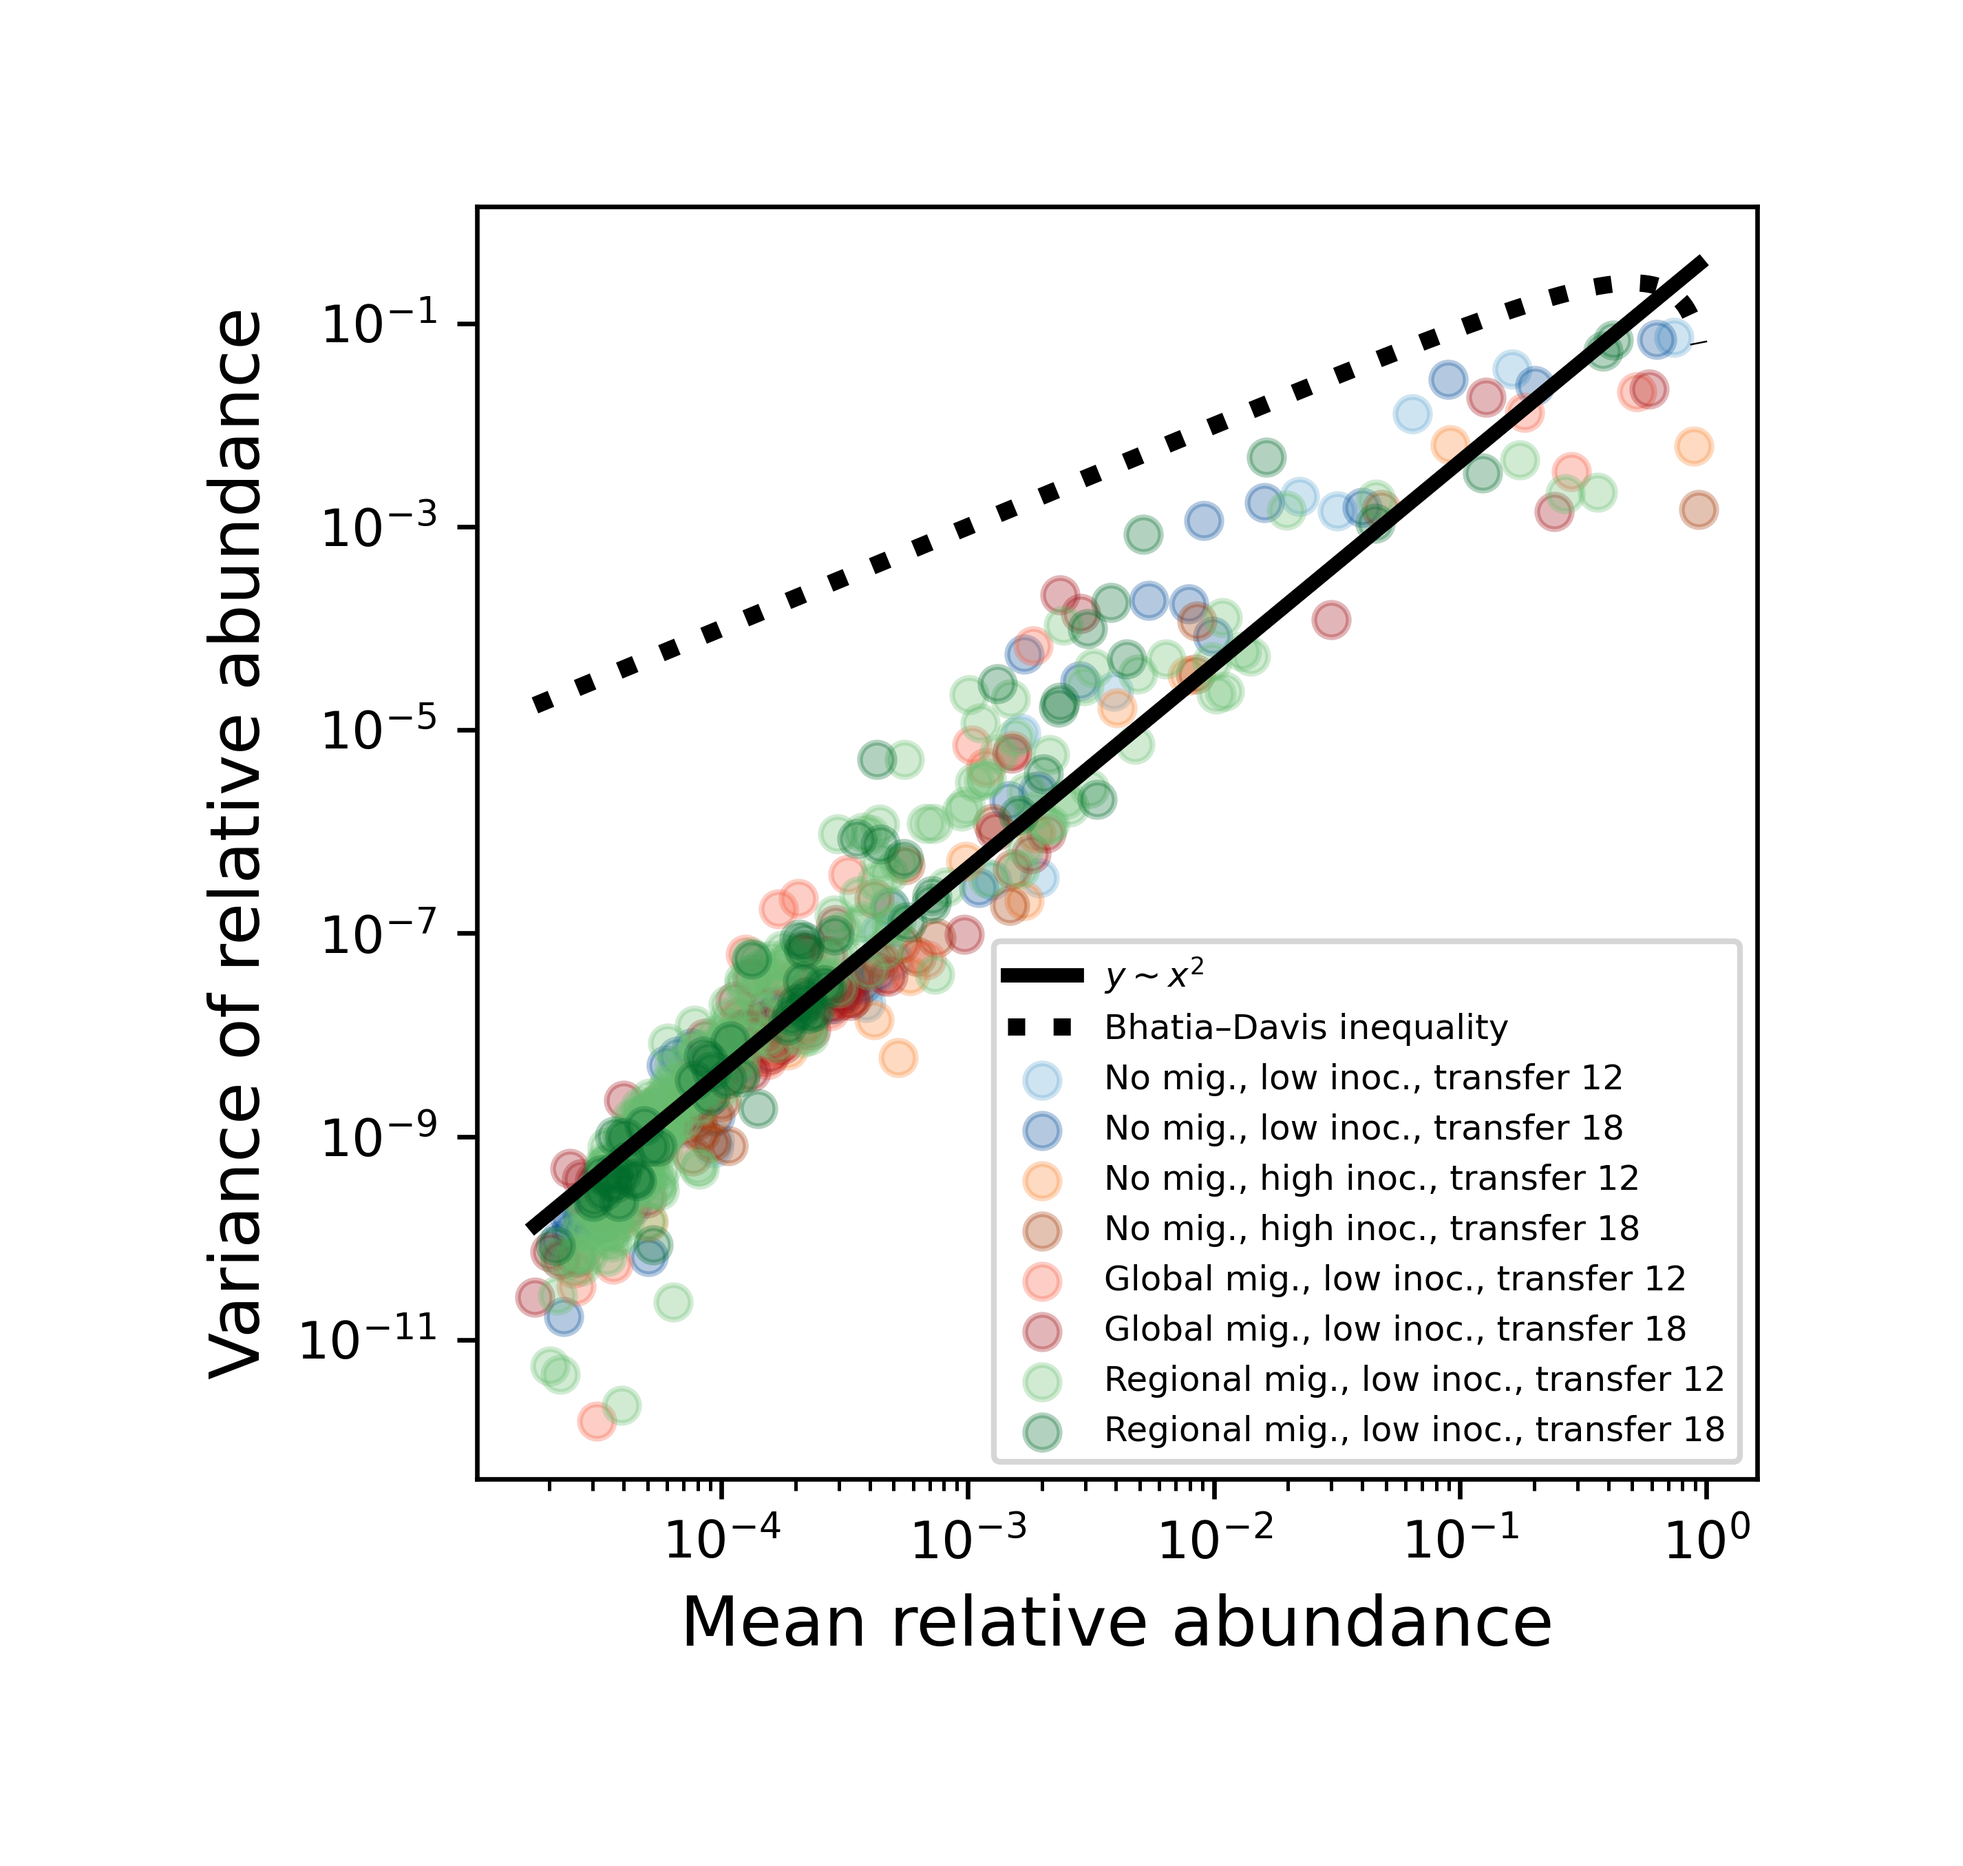
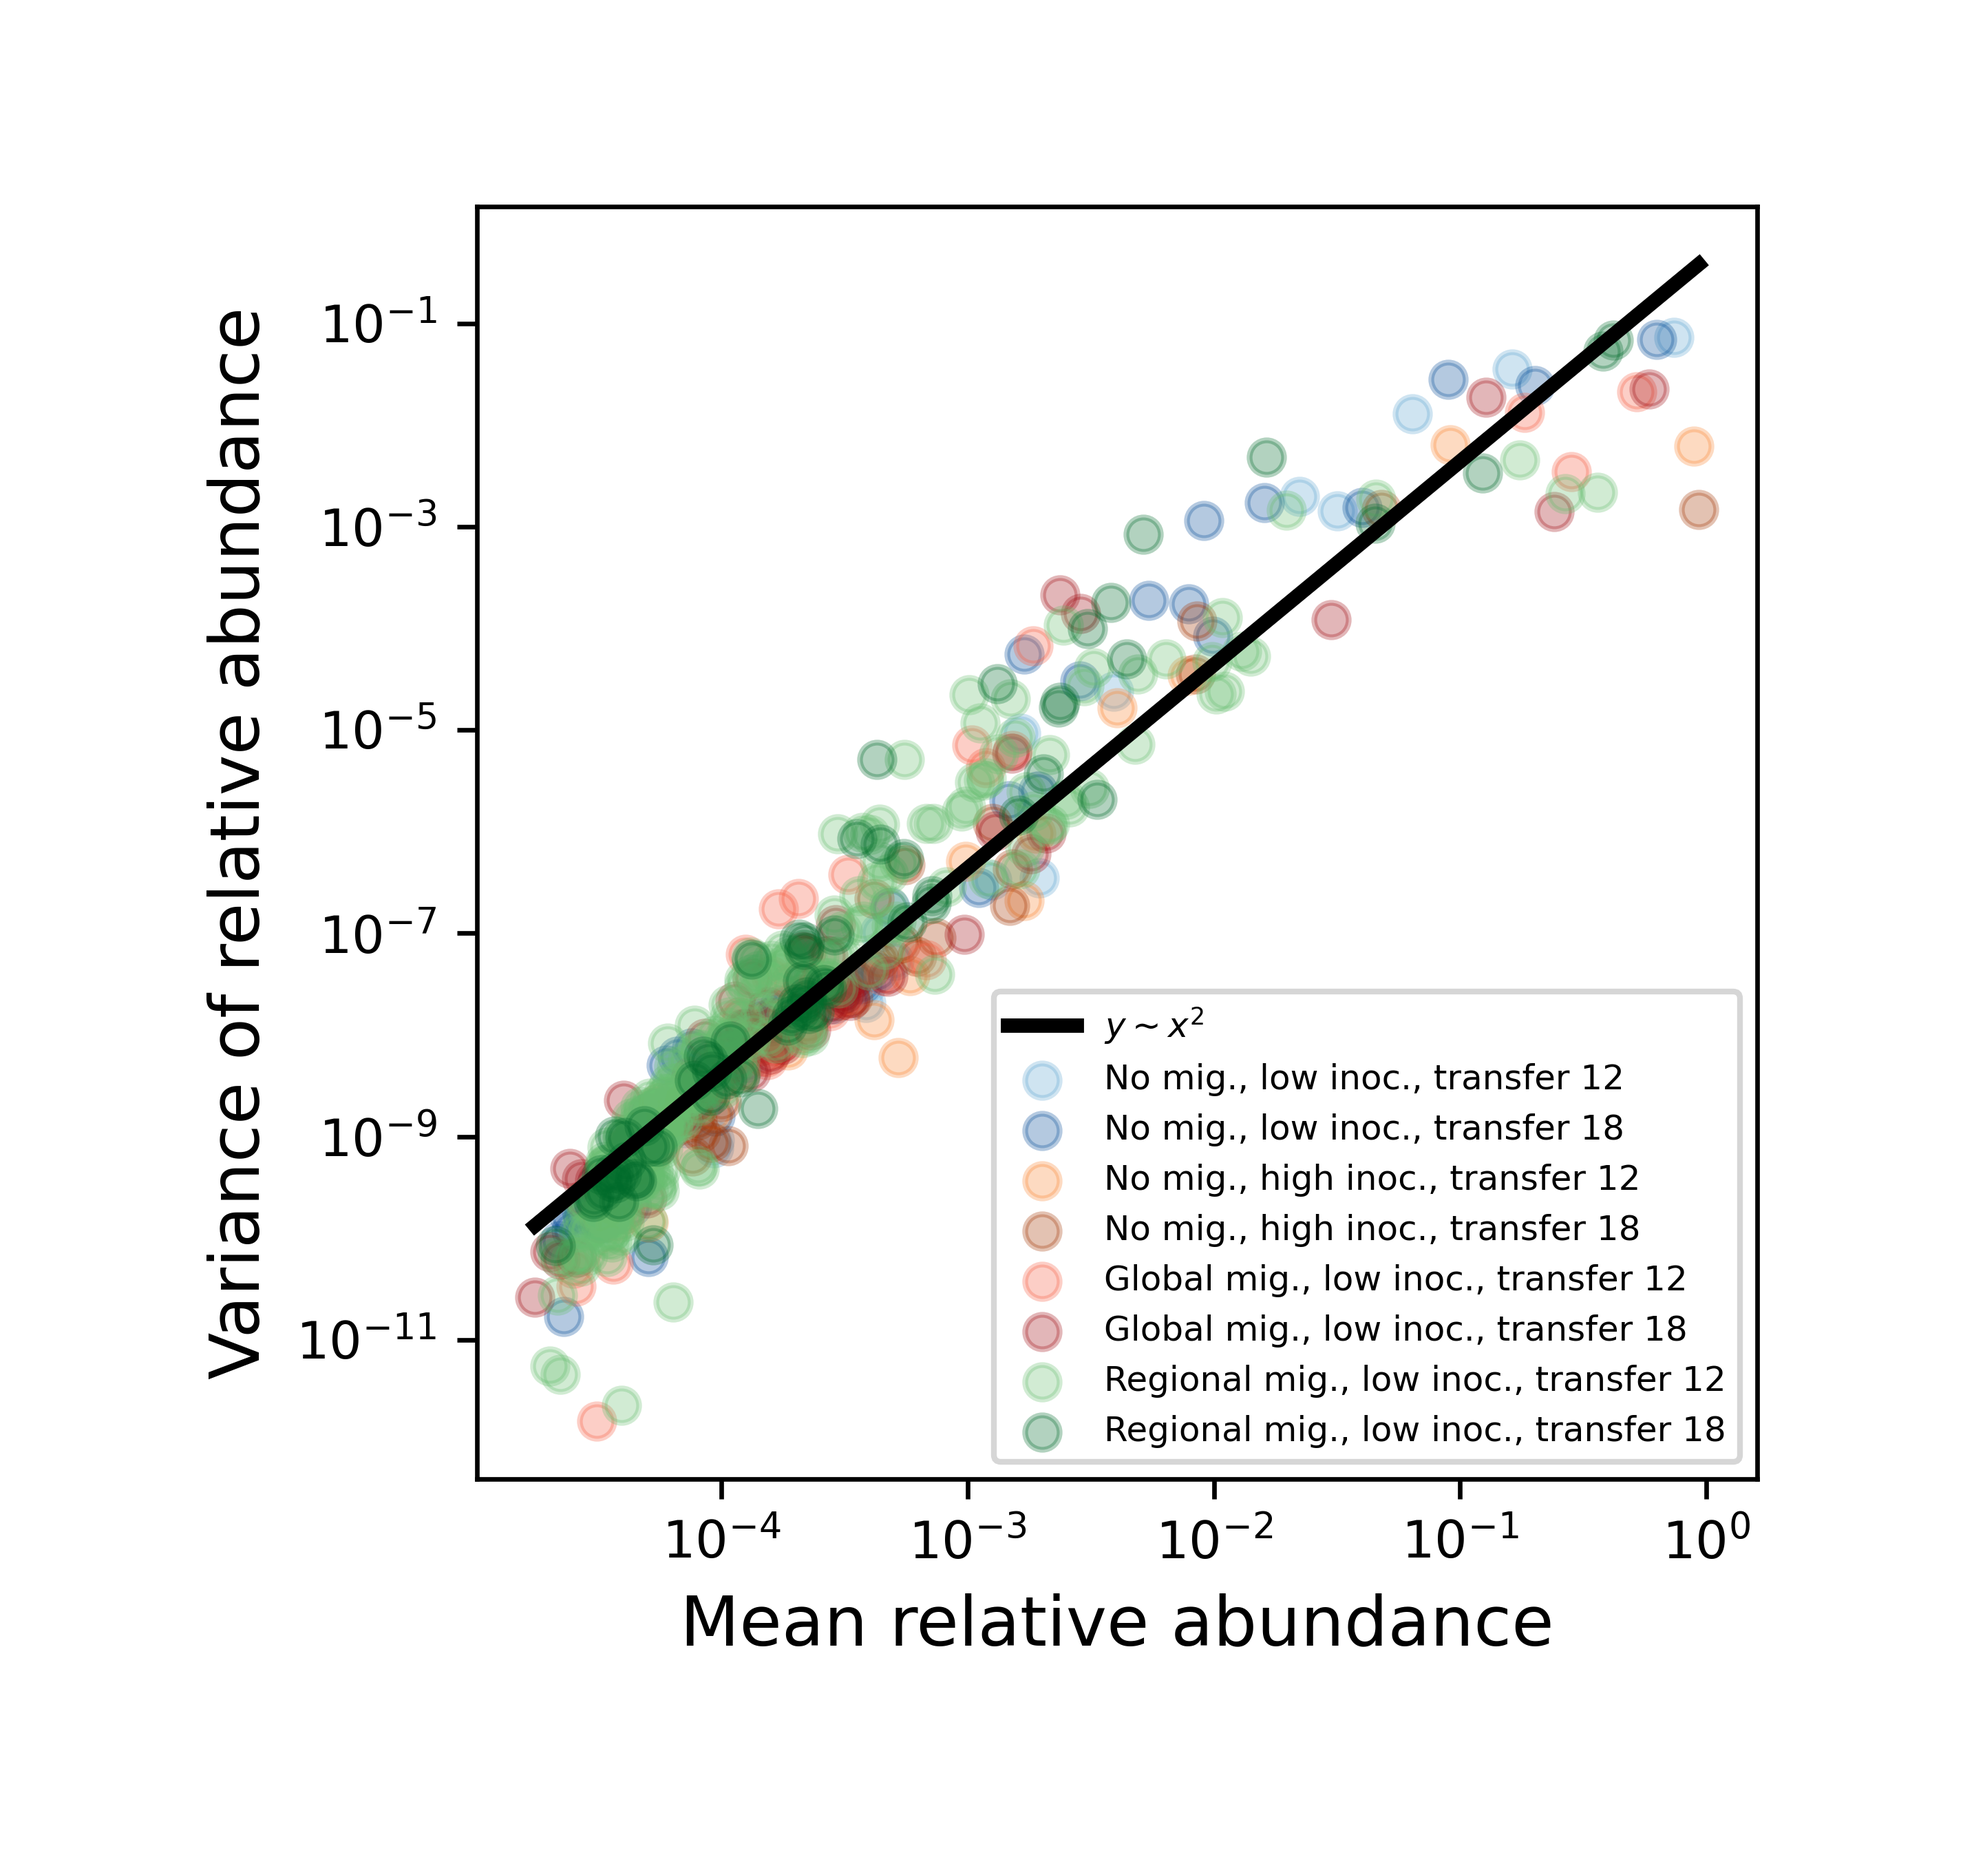
edits for revision

diff --git a/Python/plot_taylors_law_truncation.py b/Python/plot_taylors_law_truncation.py
@@ -20,18 +20,27 @@ remove_zeros = True
 
 transfers = [12,18]
 
-fig, ax_taylors = plt.subplots(figsize=(4,4))
+#fig, ax_taylors = plt.subplots(figsize=(4,4))
+fig = plt.figure(figsize = (8.5, 4)) #
+ax_taylors = plt.subplot2grid((1, 2), (0, 0), colspan=1)
+ax_taylors_truncation = plt.subplot2grid((1, 2), (0, 1), colspan=1)
+
+
+ax_taylors.text(-0.1, 1.04, plot_utils.sub_plot_labels[0], fontsize=10, fontweight='bold', ha='center', va='center', transform=ax_taylors.transAxes)
+ax_taylors_truncation.text(-0.1, 1.04, plot_utils.sub_plot_labels[1], fontsize=10, fontweight='bold', ha='center', va='center', transform=ax_taylors_truncation.transAxes)
 
 
 
 # get mean and std for rescaling
 all_means = []
 all_vars = []
-
 slope_all = []
 
+taylor_dict = {}
 
 for migration_innoculum_idx, migration_innoculum in enumerate(utils.migration_innocula):
+
+    taylor_dict[migration_innoculum] = {}
         
     for transfer in transfers:
 
@@ -74,14 +83,17 @@ for migration_innoculum_idx, migration_innoculum in enumerate(utils.migration_in
         print((2*beta_taylors) / (1+beta_taylors))
 
         slope_all.append(slope)
-
         all_means.extend(means)
         all_vars.extend(variances)
 
+        taylor_dict[migration_innoculum][transfer] = {}
+        taylor_dict[migration_innoculum][transfer]['means'] = means
+        taylor_dict[migration_innoculum][transfer]['variances'] = variances
+
 
 se_slope = np.std(slope_all, ddof=1) / np.sqrt(np.size(slope_all))
-print("Mean slope +/- S.E.")
-print(np.mean(slope_all), se_slope)
+#print("Mean slope +/- S.E.")
+#print(np.mean(slope_all), se_slope)
 
 
 
@@ -109,13 +121,52 @@ mean_range = np.linspace(min(all_means), max(all_means), num=1000)
 variance_range = (1-mean_range) * mean_range
 
 #ax_taylors.plot(mean_range, variance_range, lw=3, ls=':', c = 'k', label='Bhatia–Davis inequality')
-#ax_taylors.plot(mean_range, variance_range, lw=2.5, ls=':', c='k', label='Max. ' + r'$\sigma^{2}_{x}$', zorder=1)
+ax_taylors.plot(mean_range, variance_range, lw=2.5, ls=':', c='k', label='Max. ' + r'$\sigma^{2}_{x}$', zorder=1)
 ax_taylors.legend(loc="lower right", fontsize=6)
 
 
 
+# truncation
+x_max = np.logspace(-3, 0, num=100, endpoint=True, base=10)
+
+all_means = np.asarray(all_means)
+all_vars = np.asarray(all_vars)
+
+for migration_innoculum_idx, migration_innoculum in enumerate(utils.migration_innocula):
+        
+    for transfer in transfers:
+
+        if transfer not in taylor_dict[migration_innoculum]:
+            continue
+
+        means = taylor_dict[migration_innoculum][transfer]['means']
+        variances = taylor_dict[migration_innoculum][transfer]['variances']
+
+        means = np.asarray(means)
+        variances = np.asarray(variances)
+
+        x_max_to_plot = []
+        truncated_slope_all = []
+        for x_max_j in x_max:
+
+            idx_to_keep = (means <= x_max_j)
+
+            if sum(idx_to_keep) < 10:
+                continue
+
+            all_means_j = means[idx_to_keep]
+            all_vars_j = variances[idx_to_keep]
+            slope, intercept, r_value, p_value, std_err = stats.linregress(np.log10(all_means_j), np.log10(all_vars_j))
+
+            x_max_to_plot.append(x_max_j)
+            truncated_slope_all.append(slope)
+
+        print(truncated_slope_all)
+
+        ax_taylors_truncation.plot(x_max_to_plot, truncated_slope_all, lw=2.5, ls='-', c='k', zorder=1)
+        ax_taylors_truncation.set_xscale('log', basex=10)
 
 
-fig.subplots_adjust(wspace=0.3, hspace=0.3)
-fig.savefig(utils.directory + "/figs/taylors_law.png", format='png', bbox_inches = "tight", pad_inches = 0.5, dpi = 600)
+fig.subplots_adjust(wspace=0.25, hspace=0.25)
+fig.savefig(utils.directory + "/figs/taylors_law_truncation.png", format='png', bbox_inches = "tight", pad_inches = 0.5, dpi = 600)
 plt.close()

diff --git a/Python/plot_parent_vs_final_abundance.py b/Python/plot_parent_vs_final_abundance.py
@@ -102,7 +102,7 @@ for treatment_idx, treatment in enumerate(['No_migration.4.T12', 'No_migration.4
     ax.set_xscale('log', basex=10)
     ax.set_yscale('log', basey=10)
 
-    ax.set_xlabel('Relative abundance\n' + utils.label_dict['Parent_migration.NA.T0'], fontsize=11)
+    ax.set_xlabel('Relative abundance\n' + "in progenitor community", fontsize=11)
     ax.set_ylabel('Mean relative abundance\n' + utils.label_dict[treatment] + ', transfer ' + treatment.split('.')[-1][1:], fontsize=10)
 
 
